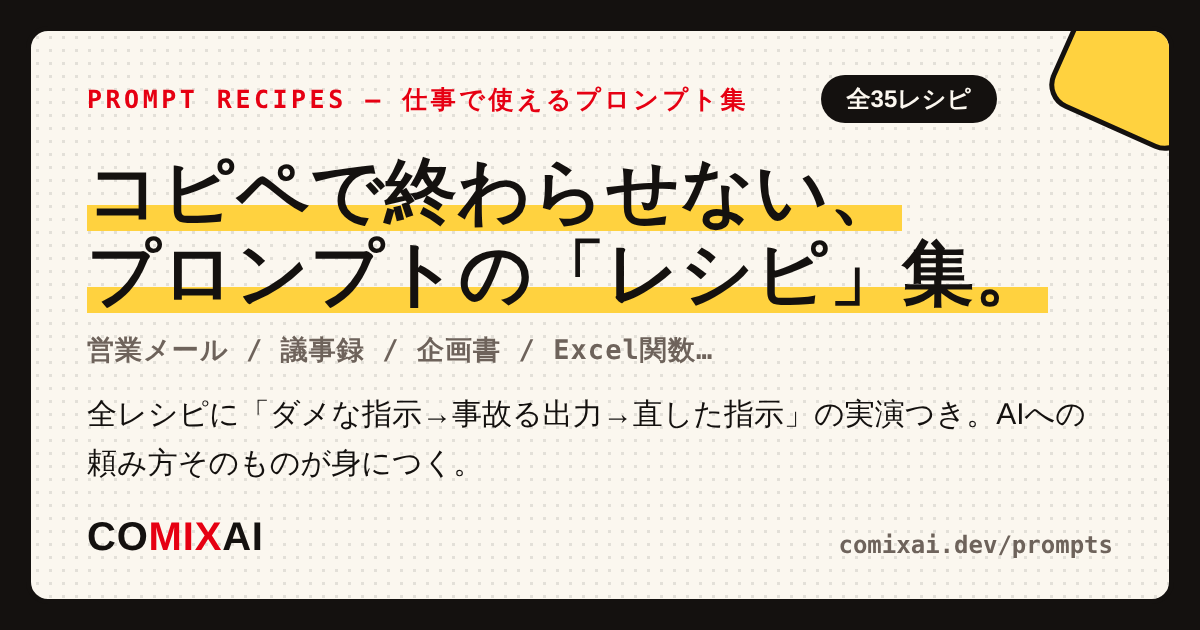
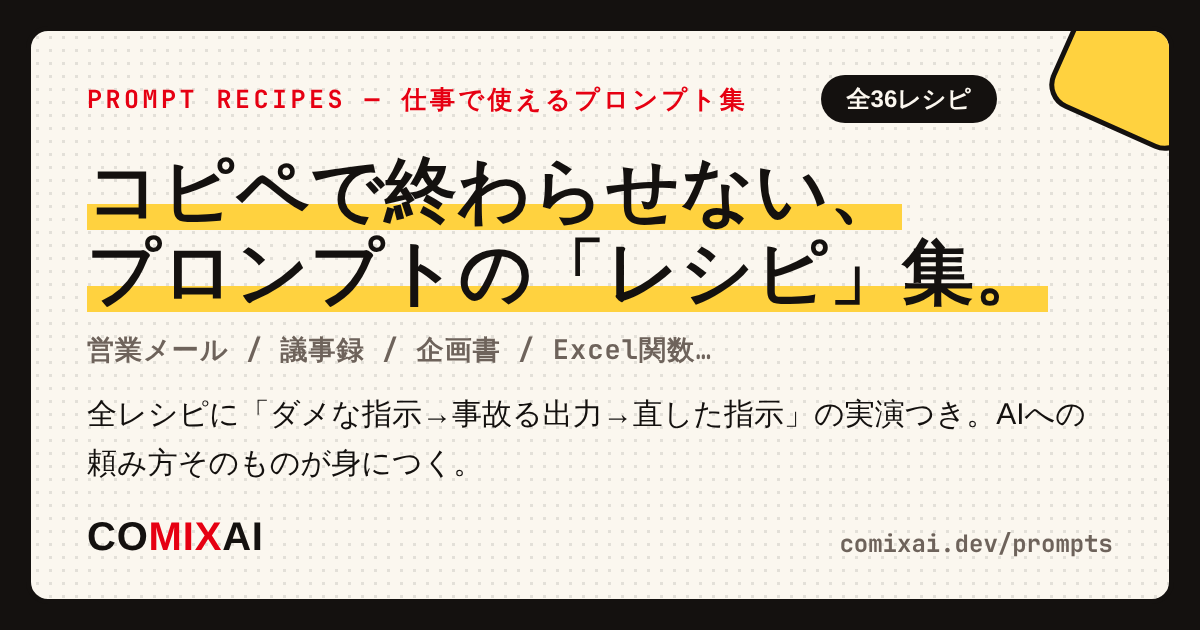
feat: プロンプト集に「読書メモ・学習ノート」を追加
- recipes-work.ts（伝える・キャリア）に reading-notes レシピを追加
- 職種ガイドへの配置は見送り（個人の学び系はresume/self-pr/
  self-analysisと同様に職種useCaseに合わないため）
- PROMPTS_UPDATED を2026-11-12に更新
- OGP画像（reading-notes.png / index.png）を生成

Claude-Session: https://claude.ai/code/session_01XXMqZ9tPo5AV49DyVUW28D

diff --git a/src/app/prompts/recipes-work.ts b/src/app/prompts/recipes-work.ts
@@ -1032,6 +1032,117 @@ F列合計を出したい。空欄の担当者は除外】
     lastUpdated: "2026-07-15",
   },
   {
+    slug: "reading-notes",
+    title: "読書メモ・学習ノート",
+    seoTitle: "AI読書メモプロンプト｜読んだ本を「使える知識」に変える",
+    catch: "要約を手に入れることと、自分の学びにすることは、別の作業。",
+    category: "伝える・キャリア",
+    icon: "ph-notebook",
+    short:
+      "読書メモ・学習ノートづくりにAIを使うプロンプト。要約させて読んだ気になる失敗例と、まず自分で思い出してからAIに質問で掘らせて、記憶に残り行動につながるノートにするコツを解説します。",
+    keywords: ["読書メモ AI", "読書ノート 書き方", "ChatGPT 読書 活用", "本 要約 AI", "学習ノート プロンプト"],
+    intro: [
+      "AIに書名を渡せば、有名な本ほどそれらしい要約が一瞬で出てきます。そして、これが読書メモのいちばん危ない落とし穴です。要約を受け取ることと、本の中身を自分の学びにすることは、まったく別の作業だからです。",
+      "記憶の研究では、知識は「思い出そうとするとき」に定着するとされています。つまり読書メモは、AIに書かせるものではなく、AIの質問で自分から引き出すもの。このレシピは、AIを要約機ではなく「読んだ内容を掘り出すインタビュアー」として使う型です。",
+    ],
+    badPrompt: "『7つの習慣』の内容を要約して。読書メモを作りたいです。",
+    badResult:
+      "「第1の習慣：主体的である——人は刺激と反応の間に選択の自由を持つ…」と、章ごとの整った要約が出てきます。きれいですが、ネット上に山ほどある紹介記事と同じ内容で、あなたがどこに線を引き、何に唸ったのかはゼロ。1週間後に読み返しても何も蘇りません。しかもこの要約、AIが本を開かずに学習知識から書いたものなので、版の違いや世間の通説が混ざり、実際の本文と細部が食い違うことがあります。",
+    badWhy: [
+      "読書メモの価値は、本の内容そのものではなく「自分がどう受け取ったか」にあります。AIの要約は学習データから出てくるので、あなたの読書体験とは無関係です。知らない本の要約ほど整って見えるのに、細部が創作されていることもある——読書とAIの相性でいちばん注意すべき点です。",
+      "もうひとつの問題は、受け取るだけでは記憶に残らないこと。要約を読むのは「わかった気になる」最短ルートで、「使える知識になる」工程をすべて飛ばしています。思い出す・自分の言葉にする・自分の状況に当てはめる——この3つはAIに代行させられません。",
+    ],
+    goodPrompt: `あなたは読書コーチです。私が読み終えた本の内容を
+「使える知識」に変えるため、インタビューしてください。
+
+■読んだ本
+・書名と著者：【例：『◯◯』（著者名）】
+・読んだ目的：【例：チームへの仕事の任せ方に悩んでいた】
+
+■覚えている内容（まず自力で書き出す。雑でOK）
+【例：・任せ方の章がいちばん刺さった
+・「権限は渡すが、責任は渡さない」という言葉
+・後半の統計の章は流し読みした】
+
+■進め方
+・私のメモに対して質問を1つずつ、合計5問まで
+  （例：「それは自分の仕事のどの場面に当てはまる？」
+  「著者の主張で納得できなかった点は？」）
+・私の回答を待ってから次の質問をする
+・最後に、ここまでの対話を読書ノートに整理する：
+  1. この本の要点3つ（私の言葉を使って）
+  2. 明日から試すこと1つ（具体的な行動レベルで）
+  3. この本への自分の立場（賛成／部分的に賛成／保留）と理由
+
+■条件
+・本の内容を、私のメモにある以上に補わない
+  （あなたの知識で要約や「この本のポイント」を足さない）`,
+    points: [
+      {
+        label: "まず自力で思い出してから渡す",
+        desc: "「覚えている内容」を雑でも自分で書き出す工程が、このレシピの本体です。思い出そうとする負荷が記憶を定着させます。ここを飛ばしてAIに要約させると、楽になるぶん何も残りません。",
+      },
+      {
+        label: "「本の内容を補わない」が安全装置",
+        desc: "有名な本ほど、AIは学習知識で空白を埋めたがります。それはあなたの読書と無関係なうえ、細部が不正確なこともある。この1行で、ノートが「自分の記録」のまま保たれます。",
+      },
+      {
+        label: "「どの場面に当てはまる？」で知識を接地する",
+        desc: "本の学びが使われないのは、抽象的なまま終わるからです。自分の仕事・生活の具体的な場面に接続する質問をさせると、知識に「使いどころ」のラベルが付きます。",
+      },
+      {
+        label: "持ち帰りは「行動1つ」に絞る",
+        desc: "10個の学びを書いたノートより、明日やる行動が1つ決まったノートのほうが、読書の成果としては上です。絞る判断までを対話の出口に組み込んであります。",
+      },
+    ],
+    arrange: [
+      {
+        title: "著者と議論するモード",
+        desc: "ノートができたら「この本の著者になりきって。私が反論するので、著者として答えて」と続けると、批判的読書の練習になります。反論して返り討ちに遭った主張は、忘れません。",
+      },
+      {
+        title: "過去のノートとつなげる",
+        desc: "「前に読んだ『◯◯』のノートと今回のノートを比べて、矛盾する主張と補完し合う点を整理して」と頼むと、1冊ずつの点の学びが線になります。読書ノートが溜まるほど効く使い方です。",
+      },
+      {
+        title: "動画・セミナー・記事にも同じ型",
+        desc: "「覚えていることを書き出す→質問で掘る→行動1つ」の型は、YouTubeやセミナーの学習ノートにもそのまま使えます。録画の文字起こしがあるなら「文字起こしの整形」レシピとの合わせ技も有効です。",
+      },
+    ],
+    pitfalls: [
+      {
+        title: "要約の公開は著作権に注意",
+        desc: "本の詳細な要約や章ごとのまとめをブログ・SNSで公開すると、著作権侵害になり得ます。読書ノートは私的利用の範囲で。発信したいときは、本の再現ではなく自分の経験と意見を主役にして、引用は出典明示で短く、が原則です。",
+      },
+      {
+        title: "AIの語る「本の内容」を鵜呑みにしない",
+        desc: "実在する本でも、AIはページ数・引用文・細部のエピソードを自信満々に創作することがあります。「この本に◯◯と書いてありましたか？」の確認は原本で。正確な引用が必要なときほど、本棚に戻ってください。",
+      },
+    ],
+    faq: [
+      {
+        q: "読む前に要約を見るのはダメですか？",
+        a: "読む前の「地図」としては有効です。全体像と目的を持って読むほうが、拾える学びは増えます。ダメなのは、要約を読んだだけで読んだ気になること。地図を見ることと、歩くことの違いです。",
+      },
+      {
+        q: "子どもの読書感想文にも使えますか？",
+        a: "丸投げは、学びが残らないうえ多くの学校で不正扱いです。正しい使い方は、読んだあとにこのレシピの型で考えを掘り出し、最後は自分の言葉で書くこと。「どの場面が心に残った？」という質問役としてのAIは、感想文の良い伴走者になります。",
+      },
+      {
+        q: "積読ばかり増えて読み終わりません。",
+        a: "「読んだ目的」から逆算して、目的に関係する章だけ読む計画をAIに立てさせる手があります（目次を貼って「◯◯が目的なら、どの章をどの順で読むべき？」）。全部読むことより、1つ持ち帰ることが読書の成果です。",
+      },
+    ],
+    relatedGlossary: ["hallucination", "prompt-engineering", "ai-literacy"],
+    game: {
+      href: "/nou",
+      title: "速い脳・遅い脳",
+      desc: "即答とじっくり思い出す思考の違いを体感。読書メモが「遅い脳」の仕事である理由がわかります。",
+    },
+    relatedRecipes: ["study", "summary", "transcript"],
+    lastUpdated: "2026-11-12",
+  },
+  {
     slug: "proofread",
     title: "文章の校正・推敲",
     seoTitle: "AI校正プロンプト｜誤字チェックで終わらせない推敲術",

diff --git a/src/app/prompts/data.ts b/src/app/prompts/data.ts
@@ -86,7 +86,7 @@ export const RECIPES: Recipe[] = [
   ...RECIPES_WORK,
 ];
 
-export const PROMPTS_UPDATED = "2026-11-05";
+export const PROMPTS_UPDATED = "2026-11-12";
 
 /** カテゴリの表示順と説明（一覧ページで使う） */
 export const RECIPE_CATEGORIES: {
